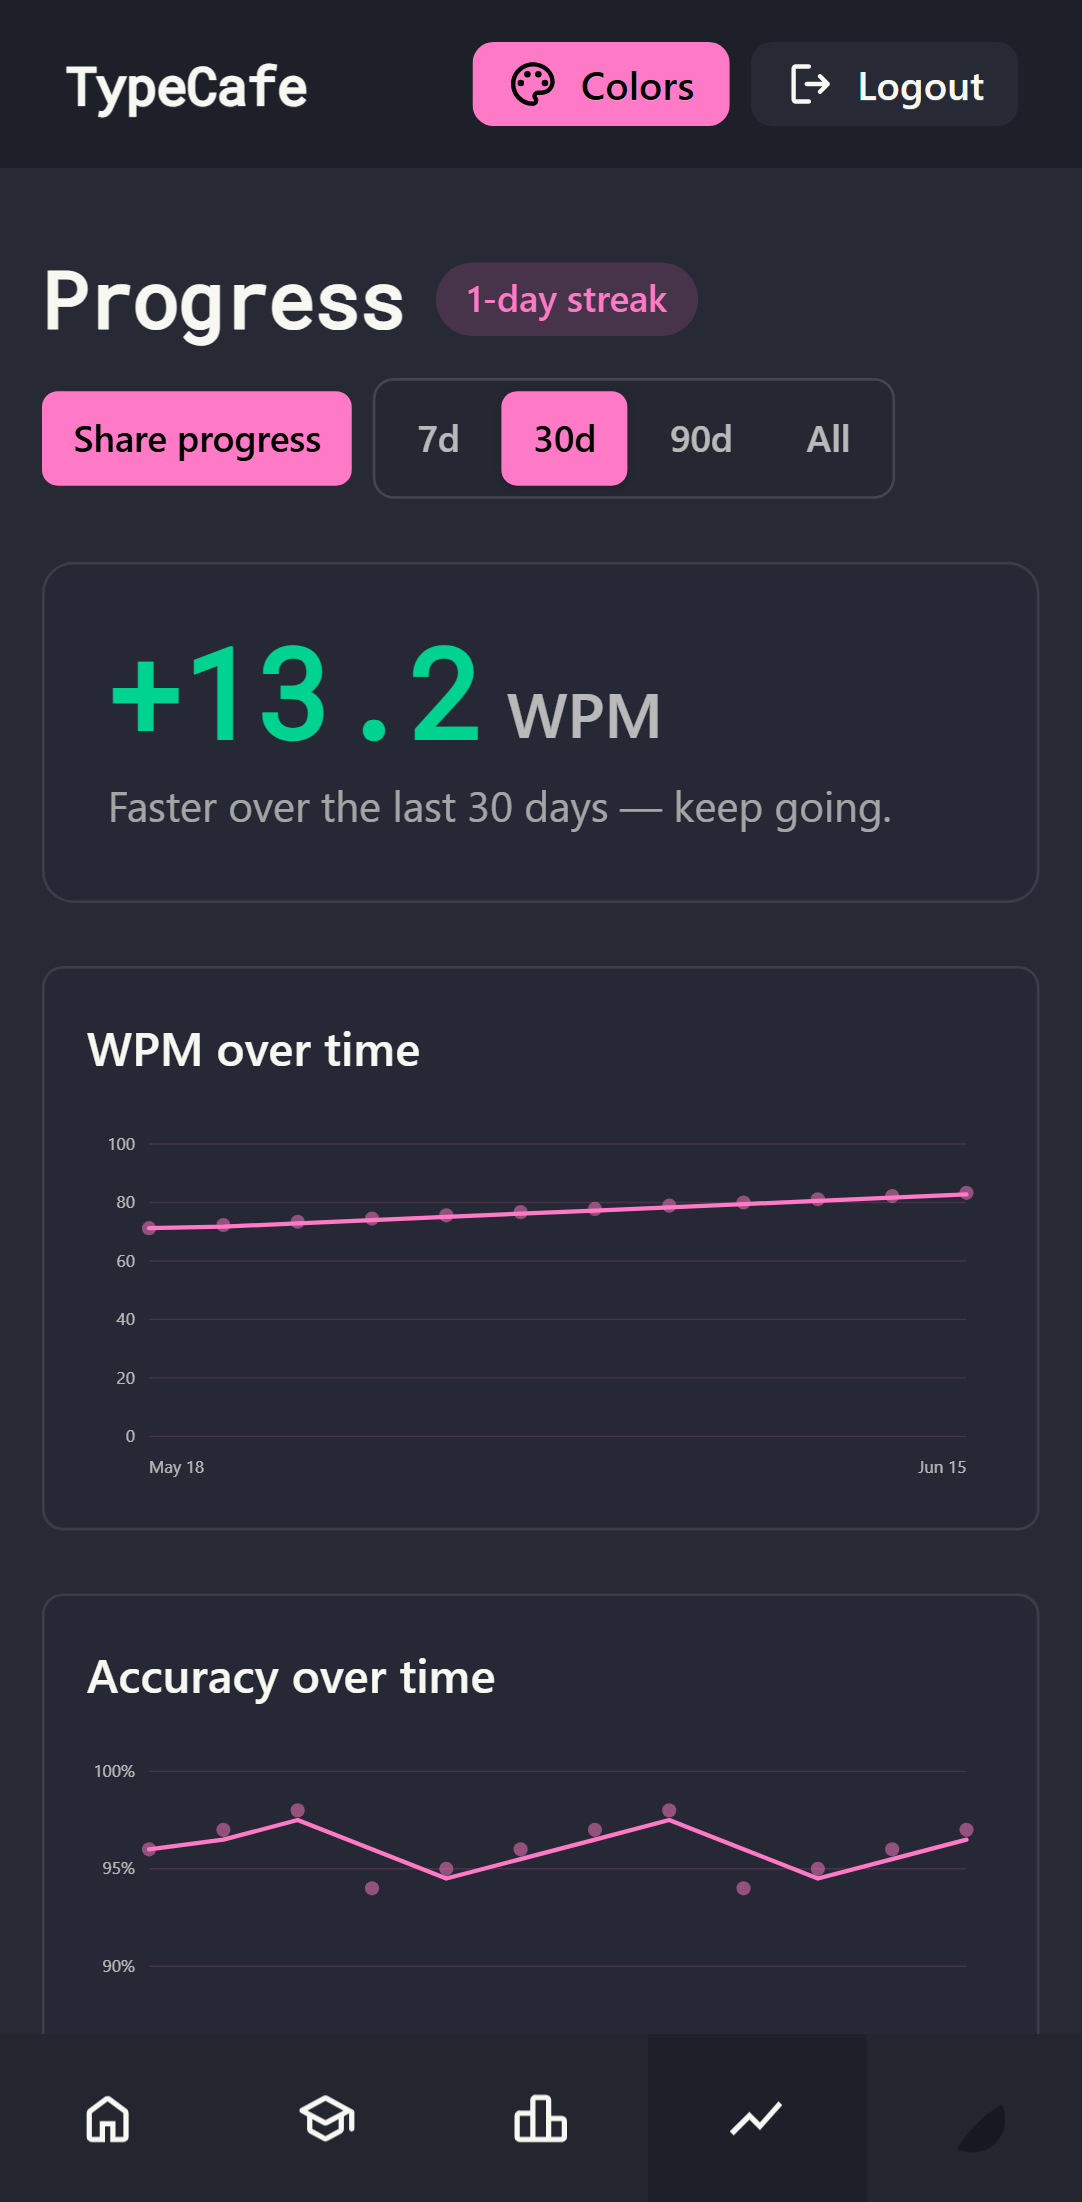
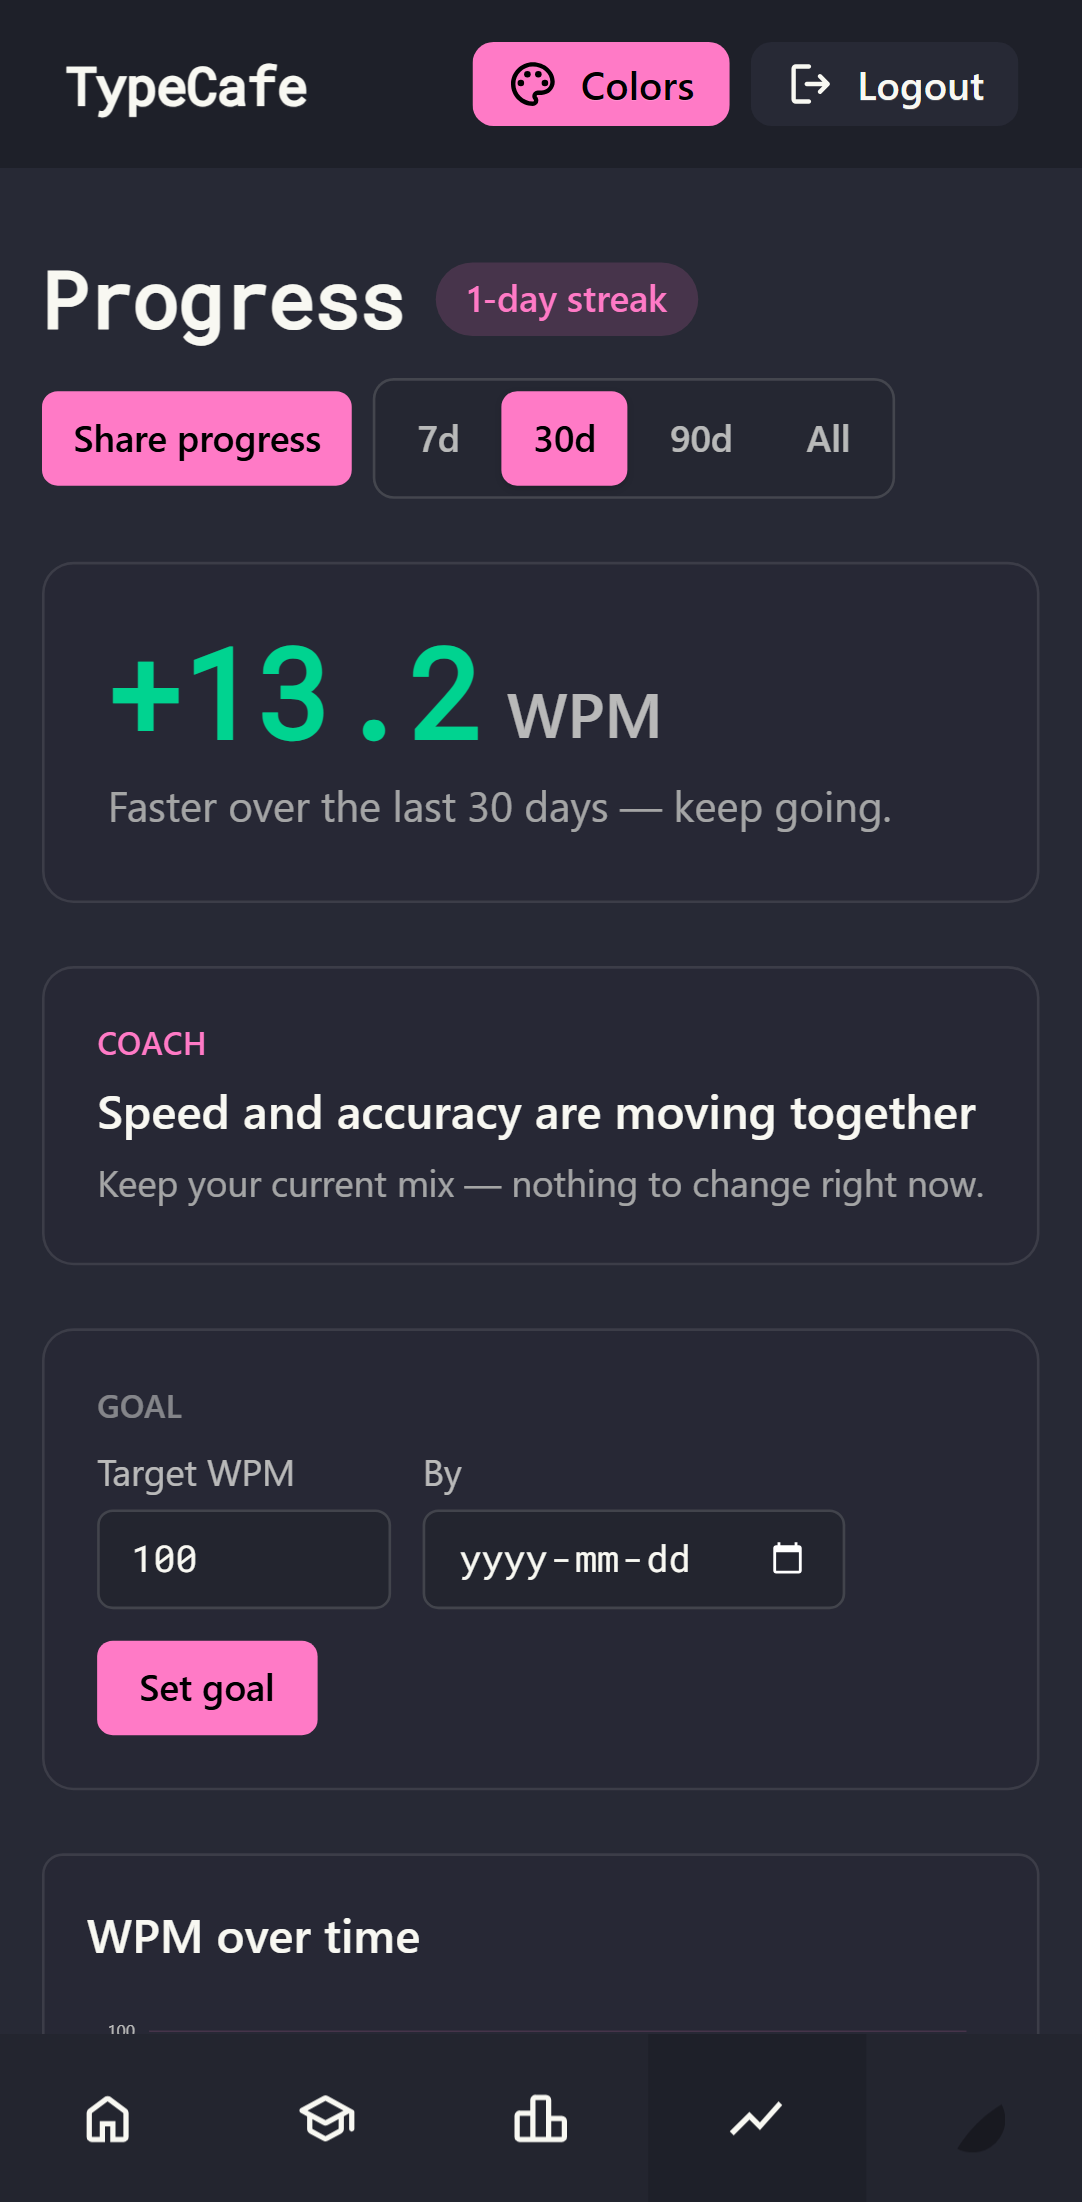
feat(coach): add the speed-vs-accuracy stance to /progress (phase-4 §4.3)
The cheapest coach-like sentence: one honest, computed stance from recent
history (heuristics, no LLM).

- src/lib/stance.ts (pure, 6 unit tests): computeStance -> accuracy-limited /
  confidence-limited / balanced, each with a headline + advice. Thresholds in
  STANCE_THRESHOLDS. accuracy-limited won't fire on a climbing trend;
  confidence-limited needs high accuracy AND low consistency.
- shown as a "Coach" card on /progress.

ponytail: thresholds in the file header until /how-we-measure exists; recap
integration is a small follow-up.

Verified: vitest 168; desktop+mobile e2e 227 passed (only the pre-existing
support-prompt specs red). Screenshot 40 updated.

diff --git a/src/lib/stance.ts b/src/lib/stance.ts
@@ -1,0 +1,73 @@
+// Speed-vs-accuracy stance (Phase 4 §4.3): one honest, computed coaching
+// sentence from recent history. Pure, unit-testable. The cheapest coach-like
+// signal we can ship — rule-based, no LLM. Thresholds live in one object so
+// they can be documented on /how-we-measure and tuned in one place.
+
+import { averageAccuracy, averageConsistency, filterByPeriod, headlineDelta, type ProgressRecord } from "./progress"
+
+export const STANCE_THRESHOLDS = {
+    // Below this accuracy you're losing more to errors than you'd gain from speed.
+    accuracyFloor: 94,
+    // Above this you have headroom to push the pace.
+    accuracyCeiling: 98,
+    // Below this consistency your pace is bursty — room to push in drills.
+    consistencyFloor: 70,
+    // |WPM delta| under this over the window counts as "not clearly improving".
+    flatDeltaWpm: 1,
+    // Period (days) the stance reads, and the minimum tests to call it.
+    windowDays: 30,
+    minTests: 5,
+} as const
+
+export type Stance = "accuracy-limited" | "confidence-limited" | "balanced"
+
+export interface StanceResult {
+    enoughData: boolean
+    stance: Stance
+    headline: string
+    advice: string
+}
+
+const COPY: Record<Stance, { headline: string; advice: string }> = {
+    "accuracy-limited": {
+        headline: "Accuracy is capping your speed",
+        advice: "Slow down about 10% — clean reps build speed faster than rushed errors.",
+    },
+    "confidence-limited": {
+        headline: "You're playing it too safe",
+        advice: "Push the pace and let errors happen in drills — your accuracy has room to spare.",
+    },
+    balanced: {
+        headline: "Speed and accuracy are moving together",
+        advice: "Keep your current mix — nothing to change right now.",
+    },
+}
+
+export function computeStance(records: ProgressRecord[], now: Date): StanceResult {
+    const recent = filterByPeriod(records, STANCE_THRESHOLDS.windowDays, now)
+    if (recent.length < STANCE_THRESHOLDS.minTests) {
+        return { enoughData: false, stance: "balanced", ...COPY.balanced }
+    }
+
+    const accuracy = averageAccuracy(recent)
+    const consistency = averageConsistency(recent)
+    const delta = headlineDelta(records, STANCE_THRESHOLDS.windowDays, now).delta
+    const improving = delta !== null && delta > STANCE_THRESHOLDS.flatDeltaWpm
+
+    let stance: Stance
+    if (accuracy < STANCE_THRESHOLDS.accuracyFloor && !improving) {
+        // Low accuracy and not already climbing → errors are the bottleneck.
+        stance = "accuracy-limited"
+    } else if (
+        accuracy > STANCE_THRESHOLDS.accuracyCeiling &&
+        consistency !== null &&
+        consistency < STANCE_THRESHOLDS.consistencyFloor
+    ) {
+        // Near-perfect but bursty → headroom to push pace.
+        stance = "confidence-limited"
+    } else {
+        stance = "balanced"
+    }
+
+    return { enoughData: true, stance, ...COPY[stance] }
+}

diff --git a/src/lib/stance.test.ts b/src/lib/stance.test.ts
@@ -1,0 +1,58 @@
+import { describe, expect, it } from "vitest"
+import { computeStance } from "./stance"
+import type { ProgressRecord } from "./progress"
+
+const NOW = new Date("2026-06-15T12:00:00.000Z")
+const DAY_MS = 24 * 60 * 60 * 1000
+
+function rec(daysAgo: number, wpm: number, accuracy: number, consistency?: number): ProgressRecord {
+    return { wpm, accuracy, consistency, createdAt: new Date(NOW.getTime() - daysAgo * DAY_MS) }
+}
+
+describe("computeStance", () => {
+    it("is insufficient with too few recent tests", () => {
+        const result = computeStance([rec(1, 70, 90), rec(2, 71, 91)], NOW)
+        expect(result.enoughData).toBe(false)
+        expect(result.stance).toBe("balanced")
+    })
+
+    it("flags accuracy-limited when accuracy is low and WPM is flat", () => {
+        // ~91% accuracy, flat WPM across both windows.
+        const records = [
+            rec(40, 70, 91), rec(35, 70, 90),
+            rec(20, 70, 91), rec(15, 70, 92), rec(10, 70, 90), rec(5, 70, 91), rec(2, 70, 92),
+        ]
+        const result = computeStance(records, NOW)
+        expect(result.stance).toBe("accuracy-limited")
+        expect(result.advice).toMatch(/slow down/i)
+    })
+
+    it("does not nag about accuracy when WPM is clearly improving", () => {
+        // Low accuracy but rising fast (prior window ~60, current ~75).
+        const records = [
+            rec(40, 58, 91), rec(35, 60, 90),
+            rec(20, 72, 91), rec(15, 74, 90), rec(10, 75, 92), rec(5, 76, 91), rec(2, 78, 90),
+        ]
+        const result = computeStance(records, NOW)
+        expect(result.stance).toBe("balanced")
+    })
+
+    it("flags confidence-limited when accuracy is high but consistency is low", () => {
+        const records = Array.from({ length: 7 }, (_, i) => rec(20 - i * 2, 80, 99, 60))
+        const result = computeStance(records, NOW)
+        expect(result.stance).toBe("confidence-limited")
+        expect(result.advice).toMatch(/push the pace/i)
+    })
+
+    it("stays balanced when high accuracy is also consistent", () => {
+        const records = Array.from({ length: 7 }, (_, i) => rec(20 - i * 2, 80, 99, 90))
+        const result = computeStance(records, NOW)
+        expect(result.stance).toBe("balanced")
+    })
+
+    it("treats missing consistency as not-bursty (no false confidence-limited)", () => {
+        const records = Array.from({ length: 7 }, (_, i) => rec(20 - i * 2, 80, 99))
+        const result = computeStance(records, NOW)
+        expect(result.stance).toBe("balanced")
+    })
+})

diff --git a/src/pages/progress.tsx b/src/pages/progress.tsx
@@ -26,6 +26,7 @@ import {
 } from "~/lib/progress";
 import { readLocalProgress } from "~/lib/progressHistory";
 import { buildRecap, isRecapDue } from "~/lib/recap";
+import { computeStance } from "~/lib/stance";
 import { api } from "~/utils/api";
 
 const RECAP_SEEN_KEY = "typecafe:lastRecapAt";
@@ -79,6 +80,7 @@ const ProgressDashboard = (props: { records: ProgressRecord[]; keyAttempts: Reco
         return { values: nums, rolling: rollingAverage(nums, series.window) };
     }, [series]);
     const avgConsistency = averageConsistency(inPeriod);
+    const stance = useMemo(() => computeStance(props.records, now), [props.records, now]);
 
     const hasData = series.points.length > 0;
     // A progress card only makes sense with a real delta to brag about.
@@ -223,6 +225,14 @@ const ProgressDashboard = (props: { records: ProgressRecord[]; keyAttempts: Reco
                     </>
                 )}
             </div>
+
+            {stance.enoughData && (
+                <div data-testid="stance" className="rounded-xl border border-base-content/10 bg-base-100/45 p-5">
+                    <p className="text-xs font-semibold uppercase tracking-wide text-primary">Coach</p>
+                    <p className="mt-1 text-lg font-semibold text-base-content">{stance.headline}</p>
+                    <p className="mt-1 text-sm text-base-content/60">{stance.advice}</p>
+                </div>
+            )}
 
             {hasData && <GoalCard records={props.records} now={now} />}
 

diff --git a/tests/e2e/progress.spec.ts b/tests/e2e/progress.spec.ts
@@ -35,6 +35,8 @@ test.describe("progress dashboard", () => {
     await expect(page.getByText("Avg consistency")).toBeVisible();
     await expect(page.getByTestId("records-timeline")).toBeVisible();
     await expect(page.getByTestId("lifetime-heatmap")).toBeVisible();
+    // Coach stance (§4.3) reads from recent accuracy/consistency/trend.
+    await expect(page.getByTestId("stance")).toBeVisible();
   });
 
   test("the period switcher rescopes the dashboard", async ({ page }) => {

diff --git a/docs/phases/phase-4-coach.md b/docs/phases/phase-4-coach.md
@@ -51,6 +51,8 @@ One computed stance from recent history, shown on `/progress` and in recaps:
 
 Thresholds in one config object, documented on `/how-we-measure`. This is the single most coach-like sentence we can ship cheaply.
 
+**Progress:** 2026-06-15 — `src/lib/stance.ts` (pure, 6 unit tests): `computeStance(records, now)` → accuracy-limited / confidence-limited / balanced, each with a headline + advice sentence. Thresholds in `STANCE_THRESHOLDS` (accuracy floor 94 / ceiling 98, consistency floor 70, flat-delta 1 WPM, 30-day window, ≥5 tests). accuracy-limited only fires when *not* already improving (no nagging a climber); confidence-limited needs high accuracy **and** low consistency. Shown as a "Coach" card on `/progress`. ponytail: thresholds documented in the file header until `/how-we-measure` exists; recap integration (the doc also lists recaps) is a small follow-up.
+
 ## 4.4 Practice plans (L)
 
 The flagship: **"Your 30-day plan."**